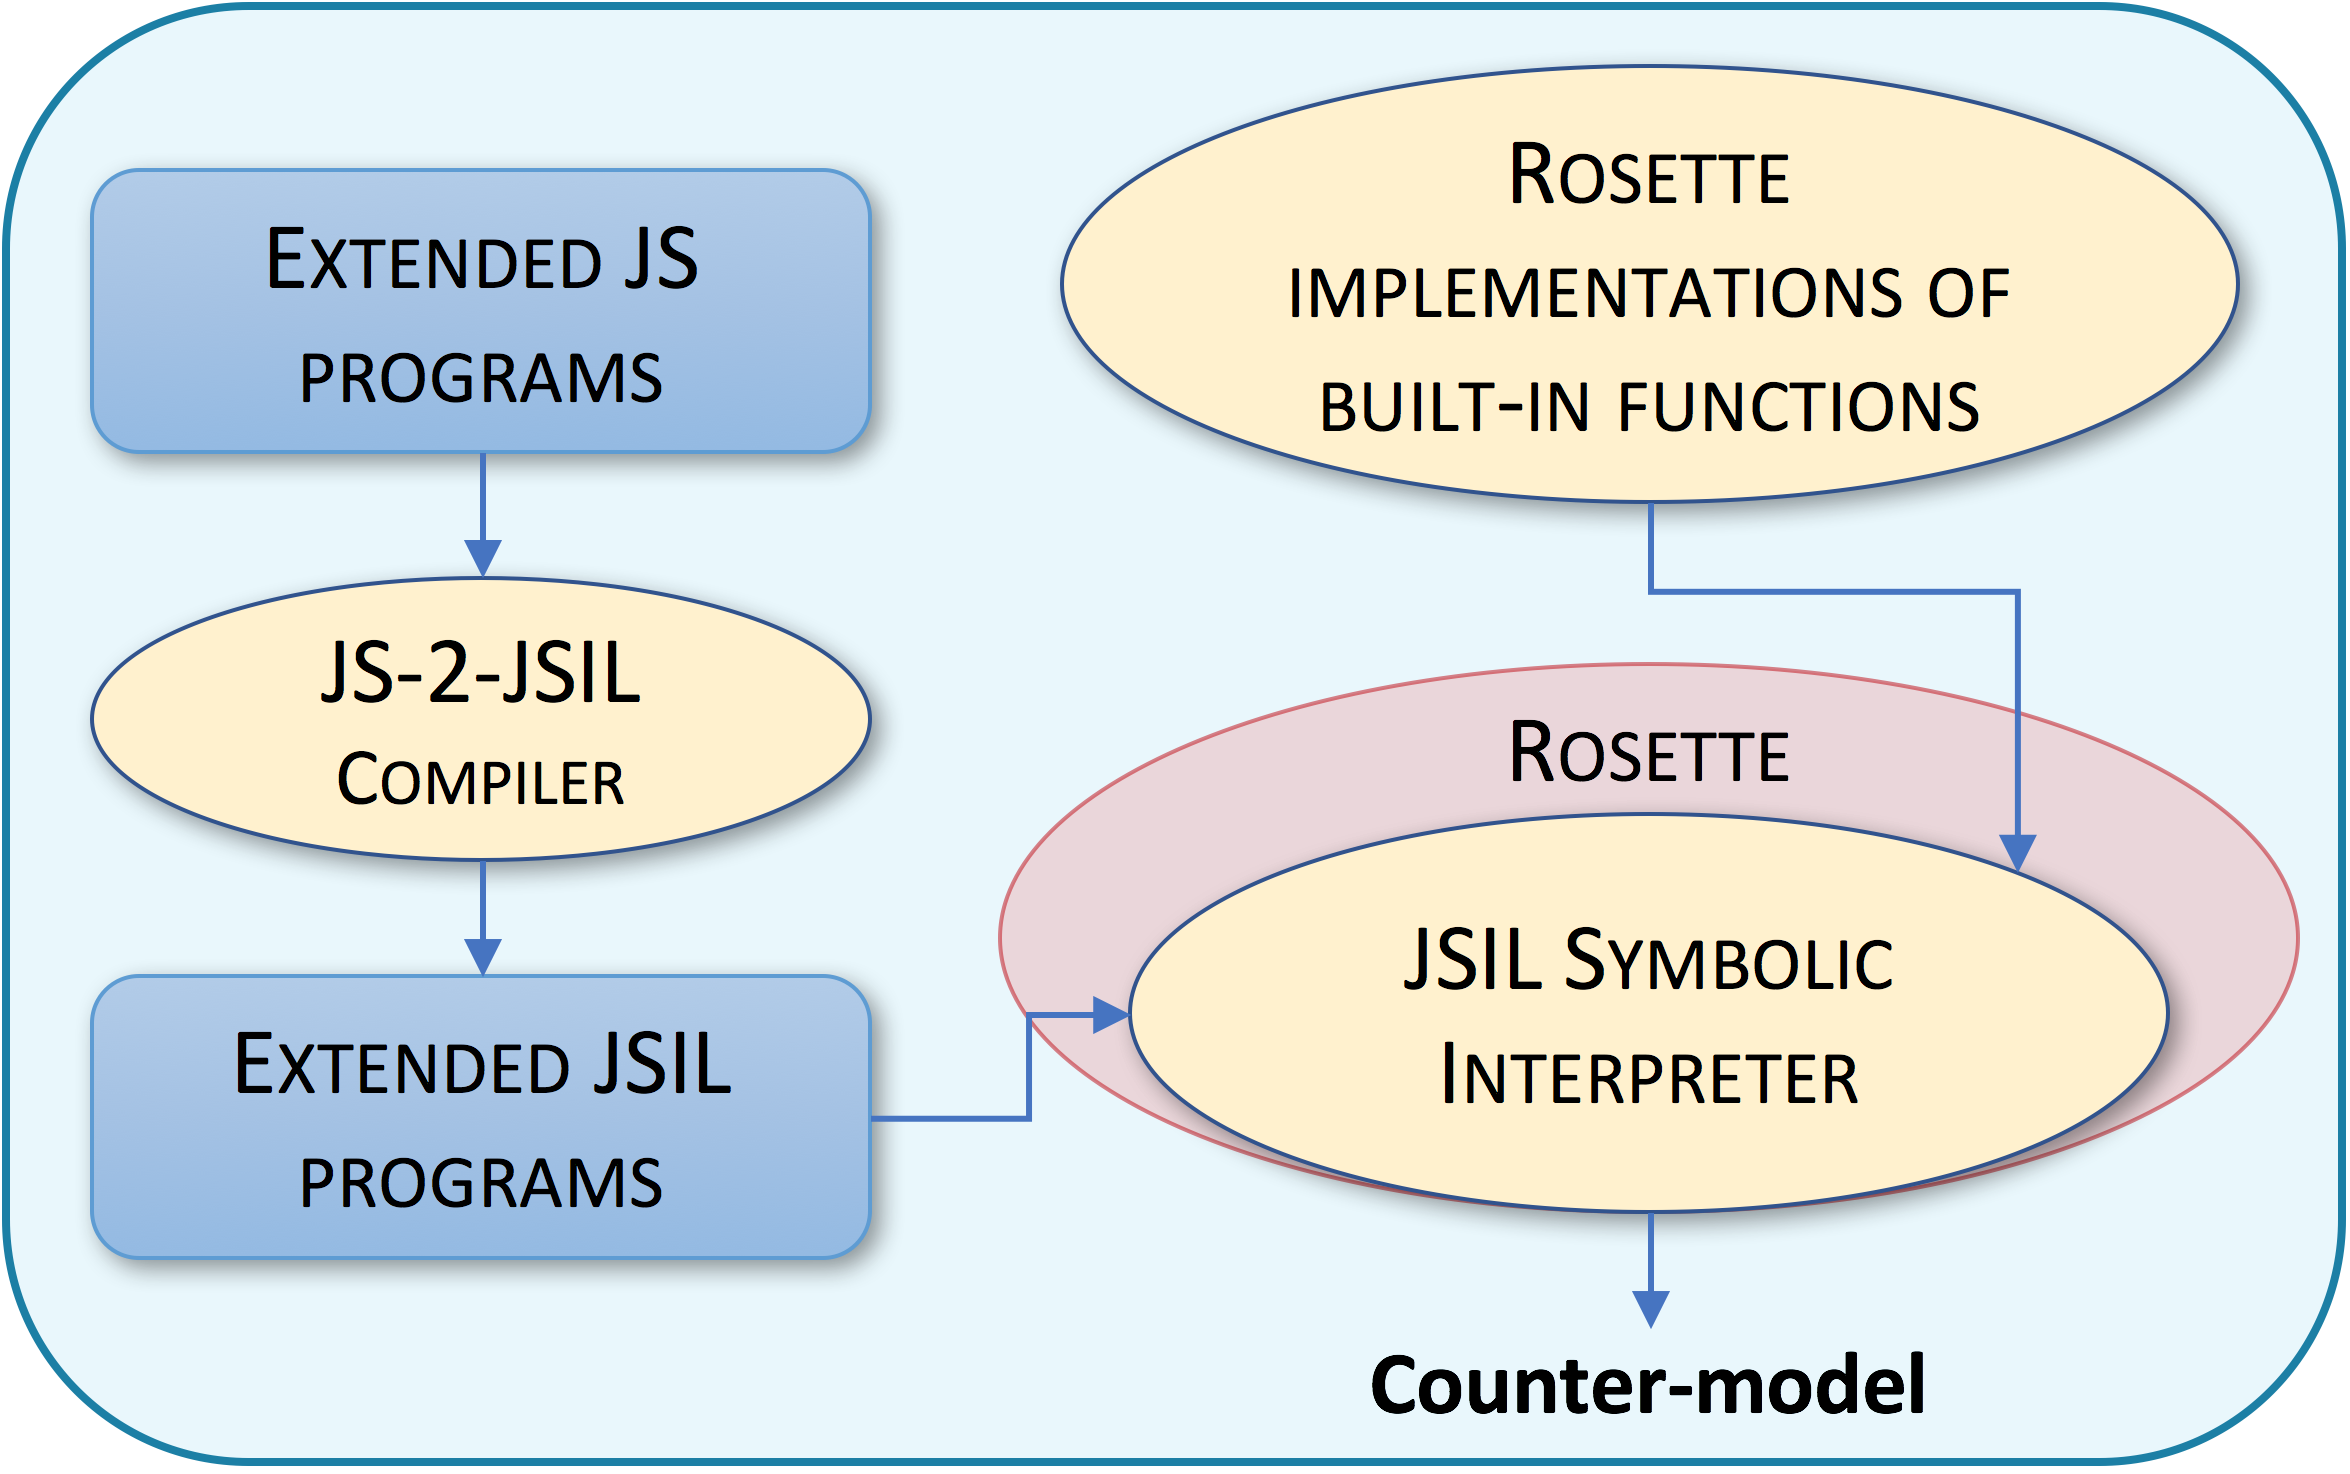
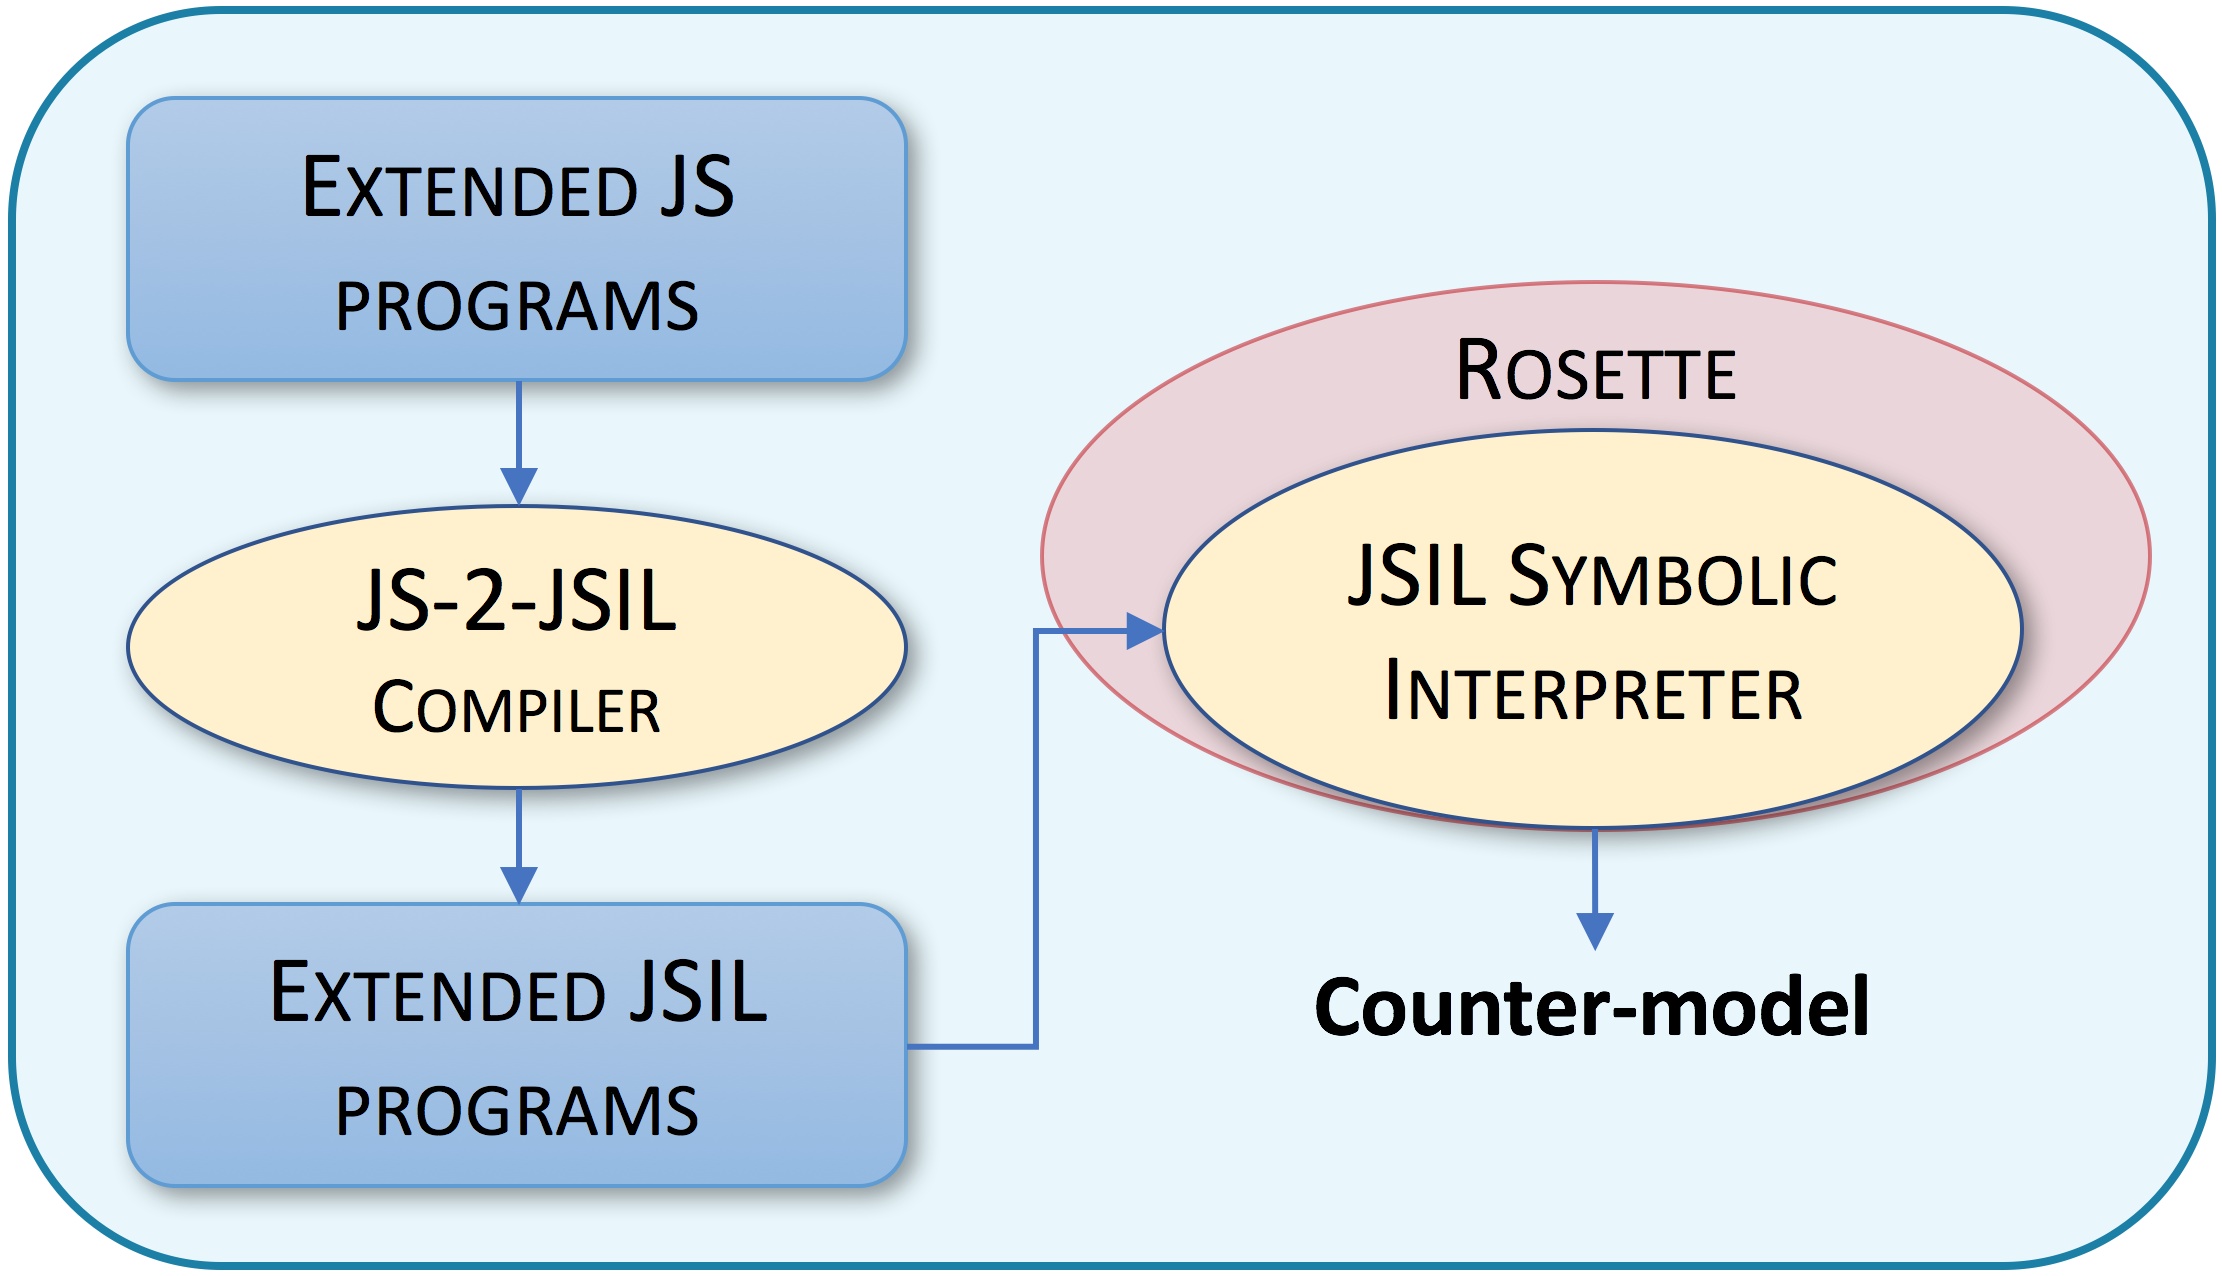
intro

diff --git a/papers/oopsla18/main.tex b/papers/oopsla18/main.tex
@@ -371,7 +371,7 @@ Soundness, however, comes at a cost: verification techniques are often too conse
 %
 There is a growing consensus among experts that soundness is, in fact, not a necessity for most modern analysis applications~\cite{.}. Instead, the property they advocate and observe in the  majority of tools is \emph{soundiness}---maintaining soundness as much as possible, but without detrimental effects to precision and/or scalability.
 
-The main issue with most bug-finding tools is not that they are soundy, but that they are not \emph{trustworthy}: their soundiness and precision are not formally characterised. They are usually not justified with respect to the semantics of the targeted language, often relying on unstated simplifying assumptions, if not explicitly departing from the semantics of the language. Consequentially, the fact that a bug-finding tool cannot find a bug carries no guarantees with respect to the correctness of the input program. We trust these tools because they appear to work empirically.
+The main issue with most bug-finding tools is not that they are soundy, but that they are not \emph{trustworthy}: their soundiness and precision are not formally characterised. They are usually not justified with respect to the semantics of the targeted language, often relying on unstated simplifying assumptions, if not explicitly departing from the semantics of the language. Consequently, the fact that a bug-finding tool cannot find a bug carries no guarantees whatsoever with respect to the correctness of the input program. We trust these tools because they appear to work empirically.
 
 Another difference between bug-finding and verification is that bug-finding tools are often based on whole-program analysis, whereas verification techniques are normally \emph{compositional}, meaning that the results of an analysis for a part of a program can be re-used when analysing the entire program. Compositionality is essential for tools that need to run regularly on large codebases. For instance, it would not be possible for Infer, a bug-finding tool based on separation logic, to be part of the continuous integration system at Facebook if it were not compositional. 
 
@@ -407,34 +407,55 @@ in that it comes with formal correctness guarantees and a precise result stating
 %These theoretical results, combined with the correctness of \JSComp, allows us to lift the results of analyses done on compiled \jsil code back up to JavaScript. 
 
 %To our knowledge, this is the first formalisation of a symbolic execution used for JavaScript analysis, and is the first symbolic execution that precisely follows the semantics of the language.
-
-\myparagraph{Architecture} Something.
-
-\myparagraph{Novelty: Trustworthiness} Designing a tractable symbolic analysis for JavaScript that is faithful to the language standard and providing correctness results for such an analysis is known to be a difficult task, due to the complexity of the language. The current approaches \pmaxinline{cite stuff} normally do not give a formal account of the analysis and/or simplify the language semantics. Our approach to designing \jilette is grounded on adherence to the standard and establishing trust. 
+ 
+\myparagraph{Novelty: Trustworthiness} Designing a tractable symbolic analysis for JavaScript that is faithful to the language standard and providing correctness results for such an analysis is known to be a difficult task, due to the complexity of the language. The current approaches~\cite{.,.,.} normally do not give a formal account of the analysis and/or simplify the language semantics. Our approach to designing \jilette is grounded on adherence to the standard and establishing trust. 
 To contain the complexity of JavaScript, we move the analysis to \jsil, an intermediate representation for logic-based analysis of JavaScript~\cite{javert}. 
 \jsil comes with a trusted compiler, \JSComp, which has been extensively tested against the official test suite, Test262,\footnote{\url{https://github.com/tc39/test262}} and produces \jsil code that corresponds line-by-line to the standard. 
-In \S\ref{???}, we give a novel abstract semantics of \jsil, which we instantiate to obtain the concrete %, instrumented (discussed shortly), 
-and symbolic semantics, connected via a {\em soundness result}. Moreover, we prove that, when used for symbolic testing (discussed shortly), \jilette never produces false counter-models. 
-These theoretical results, combined with the correctness of \JSComp and the fact that the memory models of JavaScript and \jsil are the same by design, allow us to  provably lift the results of analyses done on compiled \jsil code back up to JavaScript. To our knowledge, this is the first formalisation of a symbolic execution used for JavaScript analysis, and is the first symbolic execution for JavaScript that precisely follows the semantics of the language. 
+In \S\ref{???}, we give a novel abstract semantics of \jsil, which we instantiate to obtain the concrete and symbolic semantics, connected via a {\em soundiness result}. Moreover, we prove that \jilette is precise, meaning that it never produces incorrect bug reports. 
+These theoretical results, combined with the correctness of \JSComp and the fact that the memory models of JavaScript and \jsil are the same by design, allow us to  provably lift the results of analyses done on compiled \jsil code back up to JavaScript. To our knowledge, this is the first formalisation of a symbolic execution used for JavaScript analysis, and is the first symbolic execution for JavaScript that precisely follows the semantics of the language.
 
 \myparagraph{Novelty: Compositionality} 
-Static languages, such as C, C++, or Java, observe the so-called \emph{frame property}, first introduced formally for separation logic~\cite{???}, but intuitively known to language designers and programmers. 
-What the frame property means, in a nutshell, that if a program produces a given output when run from a given state, then we can extend this state arbitrarily, run the program from this extended state, and the program will produce the same output. This also means that we can analyse parts of the program separately and then compose the obtained results to obtain the analysis of the entire program. For static languages, this \emph{compositionality} is a property of the language semantics and symbolic analysis tools for such languages leverage on it for free.
+Designing a compositional analysis for dynamic languages, such as JavaScript and \jsil, is a non-trivial task. This is because, unlike static languages, such as C, C++, and Java, dynamic languages do not observe the \emph{frame property}~\cite{?}, which is essential for compositionality. Intuitively, the frame property means that if a program produces a given output when run in a given state, then we can extend this state arbitrarily, run the program in this extended state, and the program will produce the same output. In JavaScript and \jsil, it is possible to introduce bugs into a program by extending the state in which it is run; we refer to such bugs as \emph{frame bugs}. 
 %
-On the other hand, dynamic languages, such as JavaScript and \jsil, do not observe the frame property. 
-This means that the behaviour of a JavaScript/\jsil program may change if the state in which it is run is extended; such extensions may introduce bugs, to which we refer as \emph{frame bugs}. 
+Current symbolic execution tools for JavaScript~\cite{???} are not compositional. They assume access to the entire program, meaning that the results they obtain when analysing functions in isolation cannot be reused, as they would not account for the interaction between the function and all of its possible frames.
 %
-Current symbolic execution tools for JavaScript~\cite{???} are not compositional. They employ \emph{whole-program analyses}, that is, they assume access to the entire program, meaning that the results they obtain when analysing functions in isolation cannot be reused, as they would not account for the interaction between the function and all of its possible frames.
-%
-In contrast, the symbolic execution of \jilette is compositional. \jilette can analyse a fragment of a program at a time, and the obtained results can be re-used in the analysis of the entire program. This has two important benefits.
+In contrast, the symbolic execution of \jilette is compositional. This has several important benefits.
 %
 First, it allows us to apply function summaries~\cite{???} instead of symbolically executing function bodies at each call site, speeding up execution time. This benefit is independent of the analysed language.
 %
-Second, it allows us to catch frame bugs, which are not reachable by non-compositional symbolic execution tools. This benefit is specific to dynamic languages.
+Next, it allows us to catch frame bugs, which are not reachable by non-compositional symbolic execution tools. This benefit is specific to dynamic languages.
+%
+Finally, it allows us to state a verification result for \jilette, precisely capturing the conditions under which our symbolic execution is sound.
 %
 We achieve compositionality by instrumenting the concrete semantics to keep track of properties that we know are {\em not present} in a given object. This we describe in detail in \S\ref{???}. To our knowledge, \jilette is the first compositional symbolic execution tool for dynamic languages.
 
+\begin{wrapfigure}{R}{0.48\textwidth}
+\vspace*{-0.45cm}
+\centering
+\includegraphics[width=0.47\textwidth]{figures/jilette_blue.png}
+\vspace*{-0.23cm}
+\caption{Architecture of \jilette}
+\vspace*{-0.4cm}
+\label{fig:jilette:diagram}
+\end{wrapfigure}
 
+\myparagraph{Architecture} The architecture of \jilette is shown in Figure 1. We extend the syntax of JavaScript with constructs for creating and reasoning about symbolic values, which are intuitive and allow the general developer to easily write assertions about the behaviour of their program. Using \JSComp, we compile the extended JavaScript code to \jsil, obtaining an extended \jsil program. The core of \jilette consists of a symbolic interpreter for
+\jsil, whose current, proof-of-concept implementation, is done with the help of Rosette~\cite{Rosette2,Rosette1}, a symbolic virtual machine that facilitates generation of solver-aided languages. The symbolic interpreter either outputs a concrete counter-model for the given assertions, or guarantees correctness up to a given bound. \pmaxinline{This is the first time we mention `bound'.}
+
+%The second component that \jilette uses is \JSComp~\cite{javert}, 
+%a well-tested, standard-compliant compiler from JavaScript to \jsil. We extend
+%\JSComp with support for the non-strict mode of ES5, as well as
+%regular expressions and the entire \jsinline|String| built-in library.
+%\JSComp allows us to lift the \jsil symbolic execution to JavaScript by first compiling JavaScript code to \jsil code, and
+%then symbolically executing the compiled code in the 
+%\jsil symbolic interpreter. This process, described in \S\ref{symb:exec:comp},
+%involves extending JavaScript syntax and the \JSComp compiler to support symbolic values and 
+%constructs for reasoning about them. These constructs are intuitive
+%and allow the general developer to easily write assertions about the behaviour
+%of their program. 
+%Moreover, we adjust the \jsil symbolic interpreter so that the abstraction level 
+%of the generated \jsil code precisely matches the abstraction level of Rosette, 
+% maximising the use of Rosette's native reasoning capabilities.
 
 %dynamic languages: they feature extensible objects, dynamic property access, and dynamic function calls. In terms of separation logic, they do not have the frame property~\cite{???}. What this effectively means is that is possible to introduce bugs into a JS/\jsil program by only extending the state for which it behaved correctly. We refer to such bugs as {\em frame bugs}.  This benefit is independent of the analysed language. Second, it allows us to catch frame bugs, which are not reachable by non-compositional symbolic execution tools. This benefit is specific to dynamic languages. We achieve compositionality by keeping track of properties that we know are {\em not present} in a given object. This we describe in detail in \S\ref{???}. To our knowledge, \jilette is the first compositional symbolic execution tool for dynamic languages.
 
